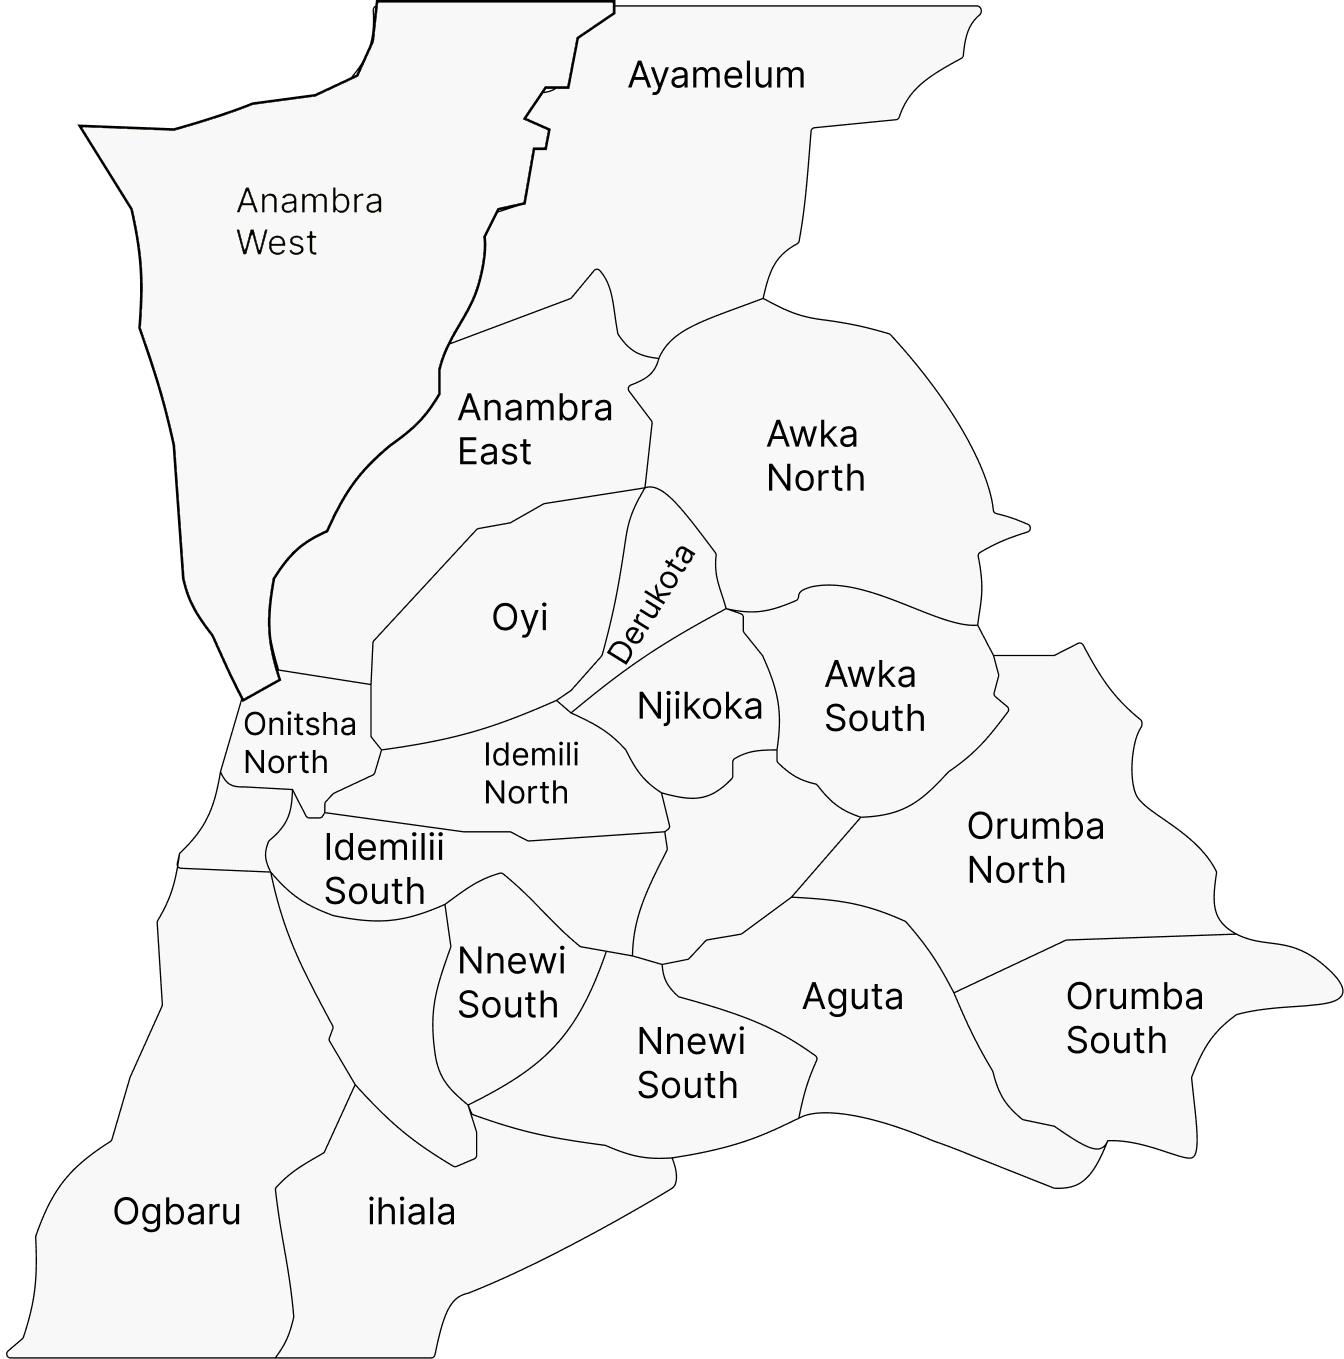
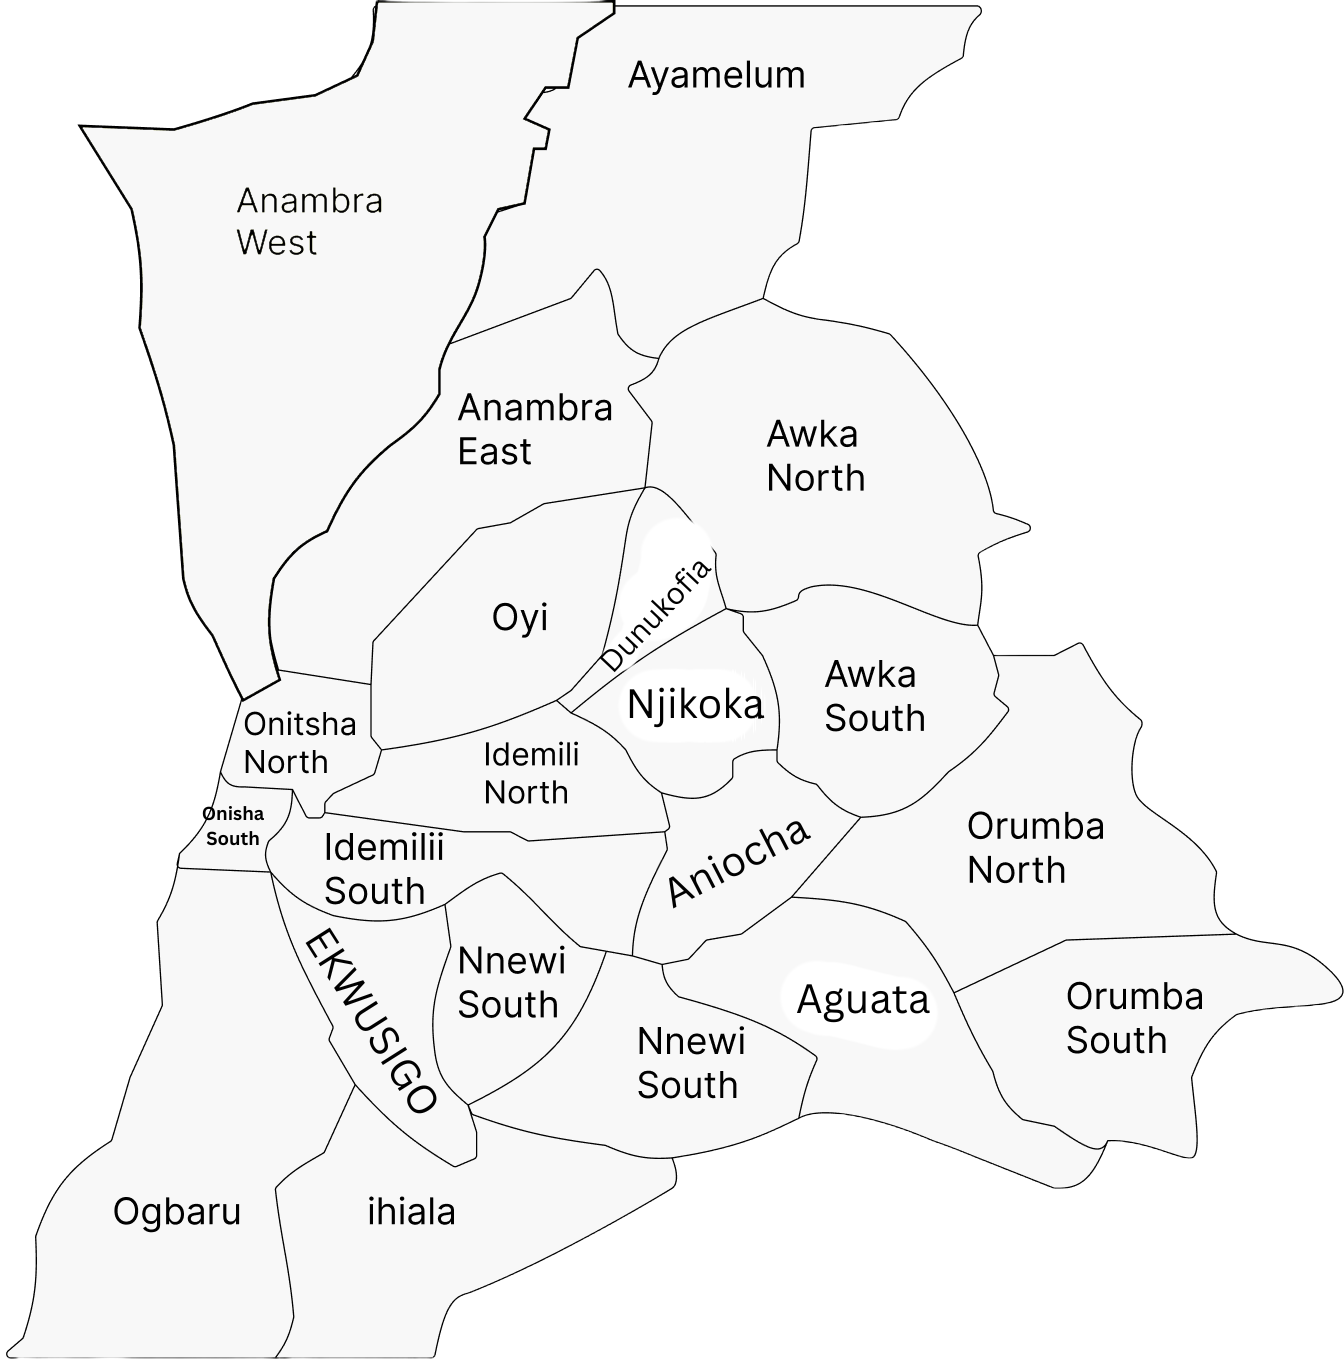
feat: Replace placeholder map labels with accurate LGA names and update descriptions

diff --git a/resources/views/livewire/home.blade.php b/resources/views/livewire/home.blade.php
@@ -20,7 +20,7 @@
                     shape="poly">
                 <area target="" alt="Oyi" title="Oyi" href="http://oyi"
                     coords="639,493,547,505,514,525,478,531,376,643,373,733,383,745,554,696,600,651" shape="poly">
-                <area target="" alt="Derukota" title="Derukota" href="http://derukota"
+                <area target="" alt="Dunukofia" title="Dunukofia" href="http://dunukofia"
                     coords="648,490,627,570,606,651,563,702,571,708,627,663,721,606,711,554" shape="poly">
                 <area target="" alt="Awka North" title="Awka North" href="http://awka.north"
                     coords="762,302,664,358,632,386,654,418,648,482,717,547,725,600,794,596,824,575,883,589,972,619,977,567,976,548,1023,529,994,512,971,454,933,391,887,339"
@@ -34,7 +34,7 @@
                 <area target="" alt="Onisha North" title="Onisha North" href="http://onisha.north"
                     coords="246,702,284,680,366,687,367,735,373,747,370,769,324,795,321,811,308,811,294,786,232,780,226,771"
                     shape="poly">
-                <area target="" alt="Beside Onisha North" title="Beside Onisha North" href="http://beside_onisha"
+                <area target="" alt="Onisha South" title="Onisha South" href="http://onisha_south"
                     coords="221,779,180,859,264,866,274,825,289,795" shape="poly">
                 <area target="" alt="Ogbaru" title="Ogbaru" href="http://ogbaru"
                     coords="182,875,267,875,331,1025,325,1043,353,1082,323,1148,272,1185,291,1313,273,1351,12,1351,30,1337,38,1293,39,1236,112,1145,146,1060,167,1007,160,924"
@@ -66,11 +66,10 @@
                 <area target="" alt="Nnewi South" title="Nnewi South" href="http://nnewi.south2"
                     coords="606,956,563,1039,475,1103,577,1133,604,1140,670,1152,791,1113,811,1060,756,1030,681,1001,657,968"
                     shape="poly">
-                <area target="" alt="Beside Awka South" title="Beside Awka South" href="http://beside.awka.south"
+                <area target="" alt="Aniocha" title="Aniocha" href="http://aniocha"
                     coords="665,797,671,830,670,844,648,900,634,952,659,960,684,954,698,937,740,929,788,893,849,818,817,788,776,766,773,752,737,759,734,779,715,797"
                     shape="poly">
-                <area target="" alt="Beside Udemili South" title="Beside Udemili South"
-                    href="http://beside.udemili.south"
+                <area target="" alt="Ekwusigo" title="Ekwusigo" href="http://ekwusigo"
                     coords="277,885,311,907,375,925,439,910,443,937,432,996,431,1050,444,1085,464,1106,473,1152,455,1159,402,1127,357,1084,332,1042,337,1028"
                     shape="poly">
             </map>
@@ -101,7 +100,7 @@
                         <area target="" alt="Oyi" title="Oyi" href="http://oyi"
                             coords="639,493,547,505,514,525,478,531,376,643,373,733,383,745,554,696,600,651"
                             shape="poly">
-                        <area target="" alt="Derukota" title="Derukota" href="http://derukota"
+                        <area target="" alt="Dunukofia" title="Dunukofia" href="http://dunukofia"
                             coords="648,490,627,570,606,651,563,702,571,708,627,663,721,606,711,554" shape="poly">
                         <area target="" alt="Awka North" title="Awka North" href="http://awka.north"
                             coords="762,302,664,358,632,386,654,418,648,482,717,547,725,600,794,596,824,575,883,589,972,619,977,567,976,548,1023,529,994,512,971,454,933,391,887,339"
@@ -373,10 +372,6 @@ Warm year-round. Dry season is muggy and partially cloudy; wet season is overcas
 Culture
 The Awuka masquerade of Aguluezechukwu and Nkpokiti Ije Enu Dance are renowned for unique dance steps and have won accolades in Anambra State.`
         },
-        'derukota': {
-            title: 'Derukota',
-            description: `Derukota (placeholder).`
-        },
         'dunukofia': {
             title: 'Dunukofia',
             description: `Dunukofia is a Local Government Area in Anambra State, South-East Nigeria. Towns: Ukpo (HQ), Ifitedunu, Dunukofia Umunnachi, Umudioka, Ukwulu and Nawgu. Borders Awka North, Idemili North, Njikoka and Oyi LGAs. Falls under the Anambra North senatorial district. Population (2006): 96,517.
@@ -416,6 +411,38 @@ Trade-driven with numerous markets and businesses including banks, hotels, resta
 
 Geography
 Average temperature ~26°C; heavy and frequent rainfall in the rainy season. Adjacent to River Niger; average humidity ~79%.`
+        },
+        'onisha-south': {
+            title: 'Onitsha South',
+            description: `Onitsha South LGA has headquarters in Fegge, Onitsha. Predominantly commercial with markets such as Ochanja that attract thousands of traders. Estimated population ~213,894. Neighborhoods include Modebe, Upper Iweka, Ojukwu Gateway, Arondizuogu Street, Port Harcourt Road, Zik Avenue, Ozomagala Road, and Niger Street. Notable sites: Christ the King College and Our Lady's High School.
+
+Economy
+Trade-driven with numerous markets and businesses including banks, hotels, restaurants, and leisure spots.
+
+Geography
+Average temperature ~26°C; heavy and frequent rainfall in the rainy season. Adjacent to River Niger; average humidity ~79%.`
+        },
+        'aniocha': {
+            title: 'Aniocha',
+            description: `Aniocha is a Local Government Area in Anambra State with headquarters in Neni. It comprises towns such as Nri, Aguluzigbo, Adazi-Ani, Adazi-Nnukwu, Adazi-Enu, Ichida, Akwaeze, Obeledu, and Neni. Nri is historically regarded as the cradle of Igbo civilization.
+
+Economy
+Aniocha has an active trading culture and small-scale industries alongside extensive farming of yam, cassava, cocoyam, and vegetables. Local markets like Neni and Adazi support commerce.
+
+Geography & Climate
+Typical tropical climate with distinct rainy (Apr–Oct) and dry (Nov–Mar) seasons; average temperatures in the mid-20s °C.`
+        },
+        'beside-onisha-north': {
+            title: 'Map Boundary Area',
+            description: `This polygon marks a boundary/overlap region on the illustrative map near Onitsha North. Please tap a labeled Local Government Area (e.g., Onitsha North, Idemili North, Ogbaru) to see detailed information.`
+        },
+        'beside-awka-south': {
+            title: 'Map Boundary Area',
+            description: `This is a boundary/connector region adjacent to Awka South on the map. Select a nearby labeled LGA (Awka South, Njikoka, Idemili South, or Dunukofia) for full details.`
+        },
+        'beside-udemili-south': {
+            title: 'Map Boundary Area',
+            description: `This polygon represents a narrow boundary zone close to Idemili South. Choose a labeled neighboring LGA (Idemili South, Idemili North, Ekwusigo, or Nnewi North/South) to learn more.`
         }
     };
 
